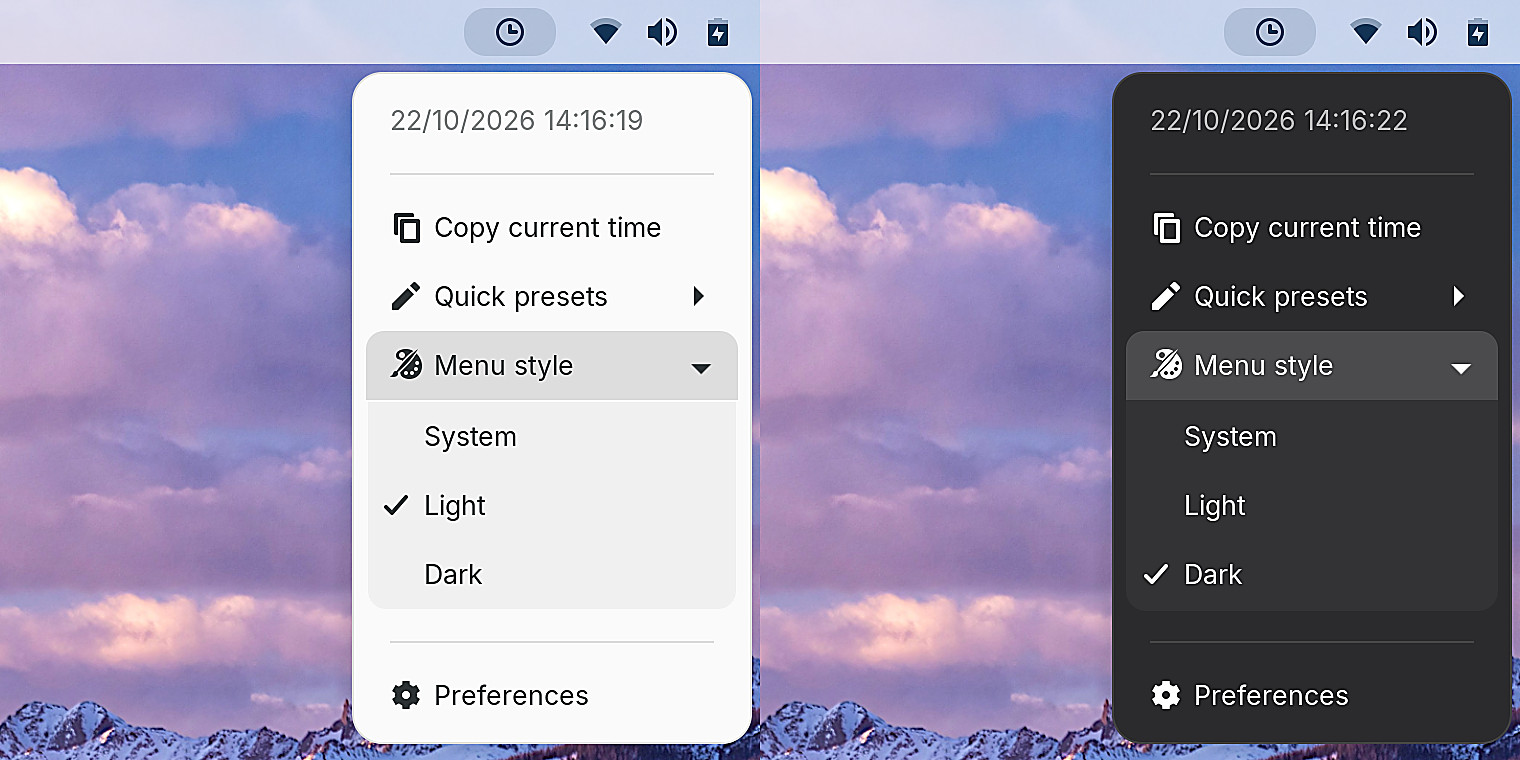
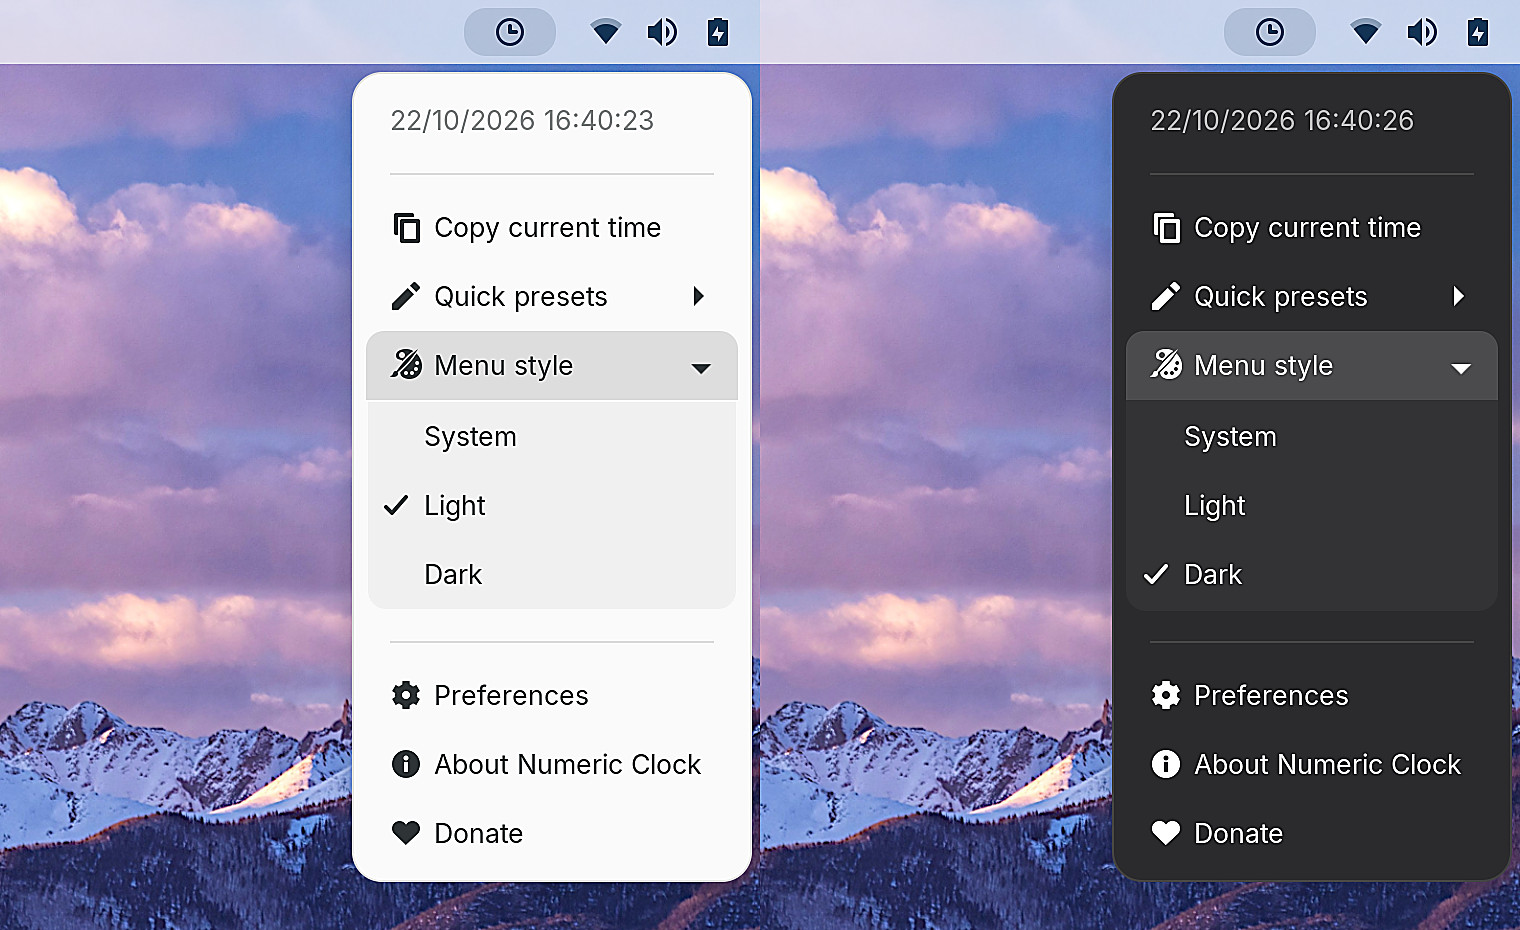
feat: About and Donate in the quick menu; fix menu position after clock right-click (v17.7.0)
- After right-clicking the top-bar clock, the next left-click on the panel
  icon opened the menu by the clock. The anchor now returns to the icon when
  the menu closes, and a left-click on the icon always anchors to the icon.
- "About Numeric Clock" opens Preferences on the About page (new prefs-page
  key); "Donate" opens the PayPal page.
- New screenshots, collage, social preview; narration and captions updated.
- Tests: anchor after a clock right-click, new items, About page request.

diff --git a/src/extension.js b/src/extension.js
@@ -22,6 +22,7 @@ const RESCAN_TICKS = 5;
 const MENU_STYLES = ['system', 'light', 'dark'];
 const STYLE_LABELS = { system: 'System', light: 'Light', dark: 'Dark' };
 const ACTION_LABELS = { menu: 'quick menu', preferences: 'preferences', copy: 'copy time' };
+const DONATE_URL = 'https://www.paypal.com/donate/?hosted_button_id=4HM44VH47LSMW';
 
 function looksLikeClock(lab) {
   const cls = lab.get_style_class_name?.() || '';
@@ -61,6 +62,14 @@ function copyTextToClipboard(text) {
     Main.notify(_('Numeric Clock'), _('Time copied to clipboard'));
   } catch (e) {
     console.error('[Numeric Clock] clipboard error:', e);
+  }
+}
+
+function openUri(uri) {
+  try {
+    Gio.AppInfo.launch_default_for_uri(uri, global.create_app_launch_context(0, -1));
+  } catch (e) {
+    console.warn(`[Numeric Clock] could not open ${uri}: ${e.message}`);
   }
 }
 
@@ -179,6 +188,9 @@ class NumericClockIndicator extends PanelMenu.Button {
         this.runAction(this._settings.get_string(key));
         return Clutter.EVENT_STOP;
       }
+      // A left-click on the icon always opens the menu under the icon.
+      if (!this.menu.isOpen)
+        this.menu.sourceActor = this;
     }
     return super.vfunc_event(event);
   }
@@ -294,12 +306,27 @@ class NumericClockIndicator extends PanelMenu.Button {
     prefsItem.connect('activate', () => this._openPrefs());
     this.menu.addMenuItem(prefsItem);
 
+    // Preferences reads prefs-page once and opens on the About page.
+    const aboutItem = menuItemWithIcon(_('About Numeric Clock'), 'help-about-symbolic');
+    aboutItem.connect('activate', () => {
+      this._settings.set_string('prefs-page', 'about');
+      this._openPrefs();
+    });
+    this.menu.addMenuItem(aboutItem);
+
+    const donateItem = menuItemWithIcon(_('Donate'), 'emblem-favorite-symbolic');
+    donateItem.connect('activate', () => openUri(DONATE_URL));
+    this.menu.addMenuItem(donateItem);
+
     this.menu.connect('open-state-changed', (_menu, open) => {
       if (open) {
         this._tooltip.hide();
         this._startMenuTimer();
       } else {
         this._clearMenuTimer();
+        // Opened from the clock, the menu is anchored there; put it back on
+        // the icon so the next left-click on the icon opens it in the right place.
+        this.menu.sourceActor = this;
       }
     });
   }

diff --git a/tools/nested-harness/extension.js b/tools/nested-harness/extension.js
@@ -1,6 +1,7 @@
 // Test harness for tools/nested-smoke-test.sh — never shipped in the release zip.
 // Drives Numeric Clock inside an isolated nested GNOME Shell and logs "NCTEST" lines.
 import GLib from 'gi://GLib';
+import Clutter from 'gi://Clutter';
 import Gio from 'gi://Gio';
 import St from 'gi://St';
 import * as Main from 'resource:///org/gnome/shell/ui/main.js';
@@ -115,6 +116,31 @@ async function run() {
   }
   const styleSub = ind().menu._getMenuItems().find(i => i.label?.text === 'Menu style');
   check('menu style submenu', styleSub?.menu._getMenuItems().length === 3);
+
+  // Bug fix 17.7: opened from the clock, closed, then opened from the icon,
+  // the menu must sit under the icon again, not under the clock.
+  ind().openQuickMenu(dm._clockDisplay);
+  await wait(300);
+  check('clock menu anchored to clock', ind().menu.sourceActor === dm._clockDisplay);
+  ind().menu.close();
+  await wait(300);
+  check('anchor back on icon after close', ind().menu.sourceActor === ind());
+  ind().runAction('menu');
+  await wait(300);
+  const [ix] = ind().get_transformed_position();
+  const [mx] = ind().menu.actor.get_transformed_position();
+  const [mw] = ind().menu.actor.get_transformed_size();
+  check('icon menu opens under icon', ind().menu.isOpen && ind().menu.sourceActor === ind() && ix >= mx - 2 && ix <= mx + mw + 2, `icon x=${ix} menu ${mx}..${mx + mw}`);
+  ind().menu.close();
+  await wait(300);
+
+  // About and Donate items
+  const labels = ind().menu._getMenuItems().map(i => i.label?.text);
+  check('about and donate items', labels.includes('About Numeric Clock') && labels.includes('Donate'), JSON.stringify(labels));
+  prefsOpened = 0;
+  ind().menu._getMenuItems().find(i => i.label?.text === 'About Numeric Clock').activate(Clutter.get_current_event());
+  check('about opens prefs on About page', prefsOpened === 1 && s.get_string('prefs-page') === 'about');
+  s.reset('prefs-page');
 
   // Non-top-bar mode walks the stage without touching the calendar popup.
   s.set_boolean('only-topbar', false);

diff --git a/tools/tests/prefs.test.js b/tools/tests/prefs.test.js
@@ -31,6 +31,10 @@ app.connect('activate', () => {
     ok('external change shown', row.text === '%Y-%m-%d', row.text);
     s.reset('format-string');
     ok('reset shown', row.text === '%d/%m/%Y %H:%M:%S', row.text);
+    const win2 = new Adw.PreferencesWindow({ application: app });
+    s.set_string('prefs-page', 'about');
+    p.fillPreferencesWindow(win2);
+    ok('about page requested', win2.get_visible_page()?.title === 'About' && s.get_string('prefs-page') === 'settings', win2.get_visible_page()?.title);
     app.quit();
     return GLib.SOURCE_REMOVE;
   });

diff --git a/src/prefs.js b/src/prefs.js
@@ -246,6 +246,11 @@ export default class NumericClockPrefs extends ExtensionPreferences {
 
     window.add(pageSettings);
     window.add(pageAbout);
+    // "About Numeric Clock" in the quick menu asks for the About page.
+    if (settings.get_string('prefs-page') === 'about') {
+      window.set_visible_page(pageAbout);
+      settings.reset('prefs-page');
+    }
 
     rowFmt.connect('changed', () => {
       if (rowFmt.text.length > MAX_FORMAT_LENGTH)

diff --git a/tools/media/narration.py b/tools/media/narration.py
@@ -8,7 +8,7 @@ NARRATION = {
     'title': 'Meet Numeric Clock: a clear, numeric date and time for your GNOME top bar.',
     'clock': 'Day, month, year, and seconds, in any format you like. It ticks exactly on the second.',
     'tooltip': 'Hover the clock icon to see the time, and what each click does.',
-    'menu': 'Left-click opens the quick menu: copy the time, pick a preset, change the style, or open Preferences.',
+    'menu': 'Left-click opens the quick menu: copy the time, presets, the menu style, Preferences, About, and a donate link.',
     'presets': 'Presets switch the format instantly: ISO 8601, week numbers, twelve-hour time, and more.',
     'styles': 'Choose a menu style: follow the system, or always light, or always dark.',
     'copy': 'Middle-click the icon to copy the current time to the clipboard.',

diff --git a/tools/media/demo_video.py b/tools/media/demo_video.py
@@ -49,7 +49,7 @@ BG = (24, 27, 36)
 CAPTIONS = {
     'clock': 'Numeric date and time · ticks on the second',
     'tooltip': 'Hover: the time and what each click does',
-    'menu': 'Left-click: quick menu',
+    'menu': 'Left-click: quick menu · presets · style · Preferences · About · Donate',
     'presets': 'Quick presets: ISO 8601 · week number · 12-hour · international',
     'styles': 'Menu style: System · Light · Dark',
     'copy': 'Middle-click: copy the current time',

diff --git a/README.md b/README.md
@@ -20,11 +20,11 @@ A lightweight **GNOME Shell extension** that turns the top-bar clock into a **nu
 
 Stock GNOME shows `Oct 22  13:17` and offers no date-format setting. Numeric Clock shows `22/10/2026 13:17:05` (or whatever you choose), ticks exactly on the second, and puts the stock clock back the moment you disable it.
 
-**Latest:** v17.6.1 — ESM build v31 for **GNOME 45–51** (**X11/Xorg validated** on Zorin OS 18.1 / GNOME Shell 46)
+**Latest:** v17.7.0 — ESM build v32 for **GNOME 45–51** (**X11/Xorg validated** on Zorin OS 18.1 / GNOME Shell 46)
 
 > **Demo:** [watch the 82-second tour](#demo-video) ([YouTube](https://youtu.be/qT1IHIulxLo)) · [write-up on DEV](https://dev.to/nickotmazgin/numeric-clock-176-a-numeric-date-and-time-for-the-gnome-top-bar-now-with-gnome-51-menu-styles-51oh) · [announcement](https://github.com/nickotmazgin/Linux-Numeric-Date-And-Clock/discussions/76)
 
-> Download [v17.6.1](https://github.com/nickotmazgin/Linux-Numeric-Date-And-Clock/releases/latest). Older stable releases are kept for rollback. See [CHANGELOG.md](CHANGELOG.md) for what changed.
+> Download [v17.7.0](https://github.com/nickotmazgin/Linux-Numeric-Date-And-Clock/releases/latest). Older stable releases are kept for rollback. See [CHANGELOG.md](CHANGELOG.md) for what changed.
 
 **UUID:** `numeric-clock@nickotmazgin`
 
@@ -47,7 +47,7 @@ Stock GNOME shows `Oct 22  13:17` and offers no date-format setting. Numeric Clo
 
 ## Demo video
 
-*82-second narrated tour of v17.6.0: the clock, every tray click, presets, menu styles and Preferences. Also on [YouTube](https://youtu.be/qT1IHIulxLo).*
+*Narrated tour of v17.7.0: the clock, every tray click, presets, menu styles and Preferences. Also on [YouTube](https://youtu.be/qT1IHIulxLo).*
 
 https://github.com/user-attachments/assets/ed9d6851-2878-4a63-8c46-d8a2bbcb1d06
 
@@ -55,15 +55,15 @@ https://github.com/user-attachments/assets/ed9d6851-2878-4a63-8c46-d8a2bbcb1d06
 
 ## Screenshots
 
-*Numeric Clock v17.6.0 on GNOME Shell — click any image to view it full size.*
+*Numeric Clock v17.7.0 on GNOME Shell — click any image to view it full size.*
 
-[![Numeric Clock v17.6.0 collage](screenshots/collage.jpg)](screenshots/collage.jpg)
+[![Numeric Clock v17.7.0 collage](screenshots/collage.jpg)](screenshots/collage.jpg)
 
 <table>
   <tr>
     <td align="center" valign="top">
-      <a href="screenshots/tray-menu.jpg"><img src="screenshots/tray-menu.jpg" width="260" alt="Numeric Clock — Panel icon — left-click quick menu"></a><br>
-      Panel icon — left-click quick menu
+      <a href="screenshots/tray-menu.jpg"><img src="screenshots/tray-menu.jpg" width="260" alt="Numeric Clock — Panel icon — left-click quick menu with About and Donate"></a><br>
+      Panel icon — left-click quick menu with About and Donate
     </td>
     <td align="center" valign="top">
       <a href="screenshots/quick-presets.jpg"><img src="screenshots/quick-presets.jpg" width="260" alt="Numeric Clock — Quick presets"></a><br>
@@ -124,7 +124,7 @@ https://github.com/user-attachments/assets/ed9d6851-2878-4a63-8c46-d8a2bbcb1d06
 * **Live preview** in settings, a built-in **format codes** cheat sheet, and invalid formats flagged (the clock falls back to the default instead of going blank)
 * Configurable **update interval** (1–300 seconds)
 * **Smooth tick** — updates land exactly on each second boundary
-* **Panel icon** — left-click for the quick menu (presets, copy time, menu style, preferences), **right-click for Preferences**, **middle-click to copy the time** (both configurable); the hover tooltip shows the time and the click hints
+* **Panel icon** — left-click for the quick menu (copy time, presets, menu style, Preferences, About, Donate), **right-click for Preferences**, **middle-click to copy the time** (both configurable); the hover tooltip shows the time and the click hints
 * **Menu style** — System (follows the shell theme), Light or Dark
 * **Right-click the formatted clock** for the same quick menu (left-click still opens GNOME calendar)
 * **Restores the stock clock immediately** when disabled or uninstalled
@@ -137,17 +137,17 @@ https://github.com/user-attachments/assets/ed9d6851-2878-4a63-8c46-d8a2bbcb1d06
 
 | GNOME | Status | Extension version | Notes |
 | ----- | ------ | ----------------: | ----- |
-| **45–51** | **Supported** | 31 | ESM build; do not ship `schemas/gschemas.compiled` |
+| **45–51** | **Supported** | 32 | ESM build; do not ship `schemas/gschemas.compiled` |
 | **42–44** | **Discontinued** | — | No longer built or maintained |
 
 | Session | Status | Notes |
 | ------- | ------ | ----- |
 | **X11 / Xorg** | **Supported · validated** | Runtime-tested on Zorin OS 18.1 / GNOME Shell 46 / X11 |
-| **Wayland** | **Supported** | **v17.6.1** passes the nested GNOME Shell (Wayland) smoke test |
+| **Wayland** | **Supported** | **v17.7.0** passes the nested GNOME Shell (Wayland) smoke test |
 
 **Minimum requirement:** GNOME Shell **45** on a **Wayland or X11/Xorg** session.
 
-> **Validation scope (v17.6.1):** runtime-tested on GNOME Shell 46 (X11 desktop and a nested Wayland shell via `tools/nested-smoke-test.sh`). GNOME 47–51 support follows the official porting guides; Numeric Clock uses none of the APIs they removed.
+> **Validation scope (v17.7.0):** runtime-tested on GNOME Shell 46 (X11 desktop and a nested Wayland shell via `tools/nested-smoke-test.sh`). GNOME 47–51 support follows the official porting guides; Numeric Clock uses none of the APIs they removed.
 
 Works on **Zorin OS**, Ubuntu, Fedora, and other GNOME-based distributions that ship Shell 45–51.
 
@@ -157,10 +157,10 @@ Works on **Zorin OS**, Ubuntu, Fedora, and other GNOME-based distributions that 
 
 ### From GitHub release (recommended)
 
-Download **`numeric-clock@nickotmazgin.v31.shell-extension.zip`** from the [latest release](https://github.com/nickotmazgin/Linux-Numeric-Date-And-Clock/releases/latest) (or `gh release download -R nickotmazgin/Linux-Numeric-Date-And-Clock`), then:
+Download **`numeric-clock@nickotmazgin.v32.shell-extension.zip`** from the [latest release](https://github.com/nickotmazgin/Linux-Numeric-Date-And-Clock/releases/latest) (or `gh release download -R nickotmazgin/Linux-Numeric-Date-And-Clock`), then:
 
 ```bash
-gnome-extensions install --force numeric-clock@nickotmazgin.v31.shell-extension.zip
+gnome-extensions install --force numeric-clock@nickotmazgin.v32.shell-extension.zip
 gnome-extensions enable numeric-clock@nickotmazgin
 gnome-extensions prefs numeric-clock@nickotmazgin
 ```
@@ -170,7 +170,7 @@ gnome-extensions prefs numeric-clock@nickotmazgin
 ```bash
 ./tools/build.sh
 ./tools/validate.sh
-gnome-extensions install --force dist/numeric-clock@nickotmazgin.v31.shell-extension.zip
+gnome-extensions install --force dist/numeric-clock@nickotmazgin.v32.shell-extension.zip
 gnome-extensions enable numeric-clock@nickotmazgin
 ```
 
@@ -198,6 +198,7 @@ Settings apply immediately. The **format string** is saved when you press **Ente
 **Quick access:**
 
 * **Left-click** the panel clock icon for the quick menu, **right-click** it for Preferences, **middle-click** it to copy the time
+* The quick menu also has **About Numeric Clock** (opens Preferences on the About page) and **Donate**
 * **Right-click** or **middle-click** the formatted top-bar clock for the same menu
 * **Left-click** the clock still opens the standard GNOME calendar
 
@@ -298,7 +299,7 @@ journalctl --user -b 0 -o cat | grep -i numeric-clock
 ## Packaging & releases (maintainers)
 
 ```bash
-./tools/build.sh                # -> dist/numeric-clock@nickotmazgin.v31.shell-extension.zip (GNOME 45–51)
+./tools/build.sh                # -> dist/numeric-clock@nickotmazgin.v32.shell-extension.zip (GNOME 45–51)
 ./tools/validate.sh
 ./tools/nested-smoke-test.sh    # isolated nested GNOME Shell run; prints PASSED/FAILED
 ./tools/prefs-test.sh           # Preferences behaviour in plain gjs

diff --git a/CHANGELOG.md b/CHANGELOG.md
@@ -1,5 +1,15 @@
 # Changelog
 
+## v17.7.0 — 2026-10-22
+
+**About and Donate in the menu, and a menu-position fix.**
+
+- **Fix:** after right-clicking the top-bar clock, the next left-click on the panel icon opened the menu over by the clock. The menu now goes back to the icon whenever it closes, and a left-click on the icon always opens it under the icon
+- **About Numeric Clock** in the quick menu opens Preferences straight on the About page (new `prefs-page` setting)
+- **Donate** in the quick menu opens the PayPal donation page
+- New screenshots, collage, social preview and demo video for 17.7
+- Tests cover the menu anchor after a clock right-click, the new items, and opening Preferences on the About page
+
 ## v17.6.1 — 2026-10-22
 
 **Fix: a stray key press could replace the clock format.**
